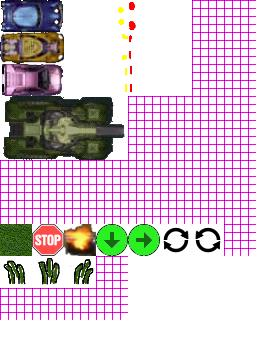
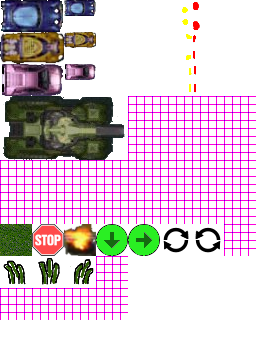
more profiling

diff --git a/DeadlockSwing/src/main/java/com/gutabi/deadlock/core/geom/ShapeUtils.java b/DeadlockSwing/src/main/java/com/gutabi/deadlock/core/geom/ShapeUtils.java
@@ -10,26 +10,26 @@ public class ShapeUtils {
 		double[] q0Projection = new double[2];
 		double[] q1Projection = new double[2];
 		
-		q0.project(q0.n01, q0Projection);
+		q0.projectN01(q0Projection);
 		q1.project(q0.n01, q1Projection);
 		if (!DMath.rangesOverlap(q0Projection, q1Projection)) {
 			return false;
 		}
 		
-		q0.project(q0.n01, q0Projection);
-		q1.project(q0.n01, q1Projection);
+		q0.projectN12(q0Projection);
+		q1.project(q0.n12, q1Projection);
 		if (!DMath.rangesOverlap(q0Projection, q1Projection)) {
 			return false;
 		}
 		
 		q0.project(q1.n01, q0Projection);
-		q1.project(q1.n01, q1Projection);
+		q1.projectN01(q1Projection);
 		if (!DMath.rangesOverlap(q0Projection, q1Projection)) {
 			return false;
 		}
 		
 		q0.project(q1.n12, q0Projection);
-		q1.project(q1.n12, q1Projection);
+		q1.projectN12(q1Projection);
 		if (!DMath.rangesOverlap(q0Projection, q1Projection)) {
 			return false;
 		}
@@ -42,13 +42,13 @@ public class ShapeUtils {
 		double[] q0Projection = new double[2];
 		double[] c1Projection = new double[2];
 		
-		q0.project(q0.n01, q0Projection);
+		q0.projectN01(q0Projection);
 		c1.project(q0.n01, c1Projection);
 		if (!DMath.rangesOverlap(q0Projection, c1Projection)) {
 			return false;
 		}
 		
-		q0.project(q0.n12, q0Projection);
+		q0.projectN12(q0Projection);
 		c1.project(q0.n12, c1Projection);
 		if (!DMath.rangesOverlap(q0Projection, c1Projection)) {
 			return false;

diff --git a/DeadlockSwing/src/main/java/com/gutabi/deadlock/model/Car.java b/DeadlockSwing/src/main/java/com/gutabi/deadlock/model/Car.java
@@ -980,17 +980,17 @@ public abstract class Car extends Entity {
 		if (inMerger) {
 			g2.setComposite(aComp);
 		} else {
-			g2.setComposite(normalComp);
+//			g2.setComposite(normalComp);
 		}
 		
-		int sheetCol = 0;
+//		int sheetCol = 0;
 		int sheetRow = getSheetRow();
 		g2.drawImage(VIEW.sheet,
 				-HALF_CAR_LENGTH_PIXELS,
 				-HALF_CAR_WIDTH_PIXELS,
 				HALF_CAR_LENGTH_PIXELS,
 				HALF_CAR_WIDTH_PIXELS,
-				sheetCol, sheetRow, sheetCol+64, sheetRow+32,
+				64, sheetRow, 64+32, sheetRow+16,
 				null);
 		
 //		g2.drawImage(MODEL.world.sheet,
@@ -1002,16 +1002,20 @@ public abstract class Car extends Entity {
 //				null);
 //		
 		if (state == CarStateEnum.BRAKING) {
-			g2.drawImage(VIEW.sheet,
-					-HALF_CAR_LENGTH_PIXELS,
-					-HALF_CAR_WIDTH_PIXELS,
-					HALF_CAR_LENGTH_PIXELS,
-					HALF_CAR_WIDTH_PIXELS,
-					sheetCol+64+64, sheetRow, sheetCol+64+64+64, sheetRow+32,
-					null);
+//			g2.drawImage(VIEW.sheet,
+//					-HALF_CAR_LENGTH_PIXELS,
+//					-HALF_CAR_WIDTH_PIXELS,
+//					HALF_CAR_LENGTH_PIXELS,
+//					HALF_CAR_WIDTH_PIXELS,
+//					192, sheetRow, 192+64, sheetRow+32,
+//					null);
 		}
 		
-		g2.setComposite(origComposite);
+		if (inMerger) {
+			g2.setComposite(origComposite);
+		} else {
+//			g2.setComposite(normalComp);
+		}
 		g2.setTransform(origTransform);
 		
 	}

diff --git a/DeadlockSwing/src/main/java/com/gutabi/deadlock/core/geom/Quad.java b/DeadlockSwing/src/main/java/com/gutabi/deadlock/core/geom/Quad.java
@@ -23,6 +23,9 @@ public class Quad extends Shape {
 //	public final Point n23;
 //	public final Point n30;
 	
+	double[] n01Projection;
+	double[] n12Projection;
+	
 	private int hash;
 	
 	public Quad(Object parent, Point p0, Point p1, Point p2, Point p3) {
@@ -41,6 +44,12 @@ public class Quad extends Shape {
 //		n23 = Point.ccw90(edge).normalize();
 //		edge = p0.minus(p3);
 //		n30 = Point.ccw90(edge).normalize();
+		
+		n01Projection = new double[2];
+		project(n01, n01Projection);
+		
+		n12Projection = new double[2];
+		project(n12, n12Projection);
 		
 		double ulX = Math.min(Math.min(p0.x, p1.x), Math.min(p2.x, p3.x));
 		double ulY = Math.min(Math.min(p0.y, p1.y), Math.min(p2.y, p3.y));
@@ -141,6 +150,16 @@ public class Quad extends Shape {
 		
 		out[0] = min;
 		out[1] = max;
+	}
+	
+	public void projectN01(double[] out) {
+		out[0] = n01Projection[0];
+		out[1] = n01Projection[1];
+	}
+	
+	public void projectN12(double[] out) {
+		out[0] = n12Projection[0];
+		out[1] = n12Projection[1];
 	}
 	
 	public void sweepStart(Sweeper s) {

diff --git a/DeadlockSwing/src/main/java/com/gutabi/deadlock/controller/DeadlockController.java b/DeadlockSwing/src/main/java/com/gutabi/deadlock/controller/DeadlockController.java
@@ -677,7 +677,7 @@ public class DeadlockController implements ActionListener {
 	}
 	
 	public void pauseRunning() {
-		assert Thread.currentThread().getName().equals("controller");
+//		assert Thread.currentThread().getName().equals("controller");
 		
 		MODEL.cursor.setPoint(lastMovedWorldPoint);
 		

diff --git a/DeadlockSwing/src/main/java/com/gutabi/deadlock/core/graph/GraphPositionPathPosition.java b/DeadlockSwing/src/main/java/com/gutabi/deadlock/core/graph/GraphPositionPathPosition.java
@@ -85,7 +85,7 @@ public class GraphPositionPathPosition {
 	public double distanceTo(GraphPositionPathPosition p) {
 		
 		assert p.path == path;
-		assert !equals(p);
+//		assert !equals(p);
 		assert DMath.greaterThanEquals(p.combo, combo);
 		
 		return p.lengthToStartOfPath - lengthToStartOfPath;
